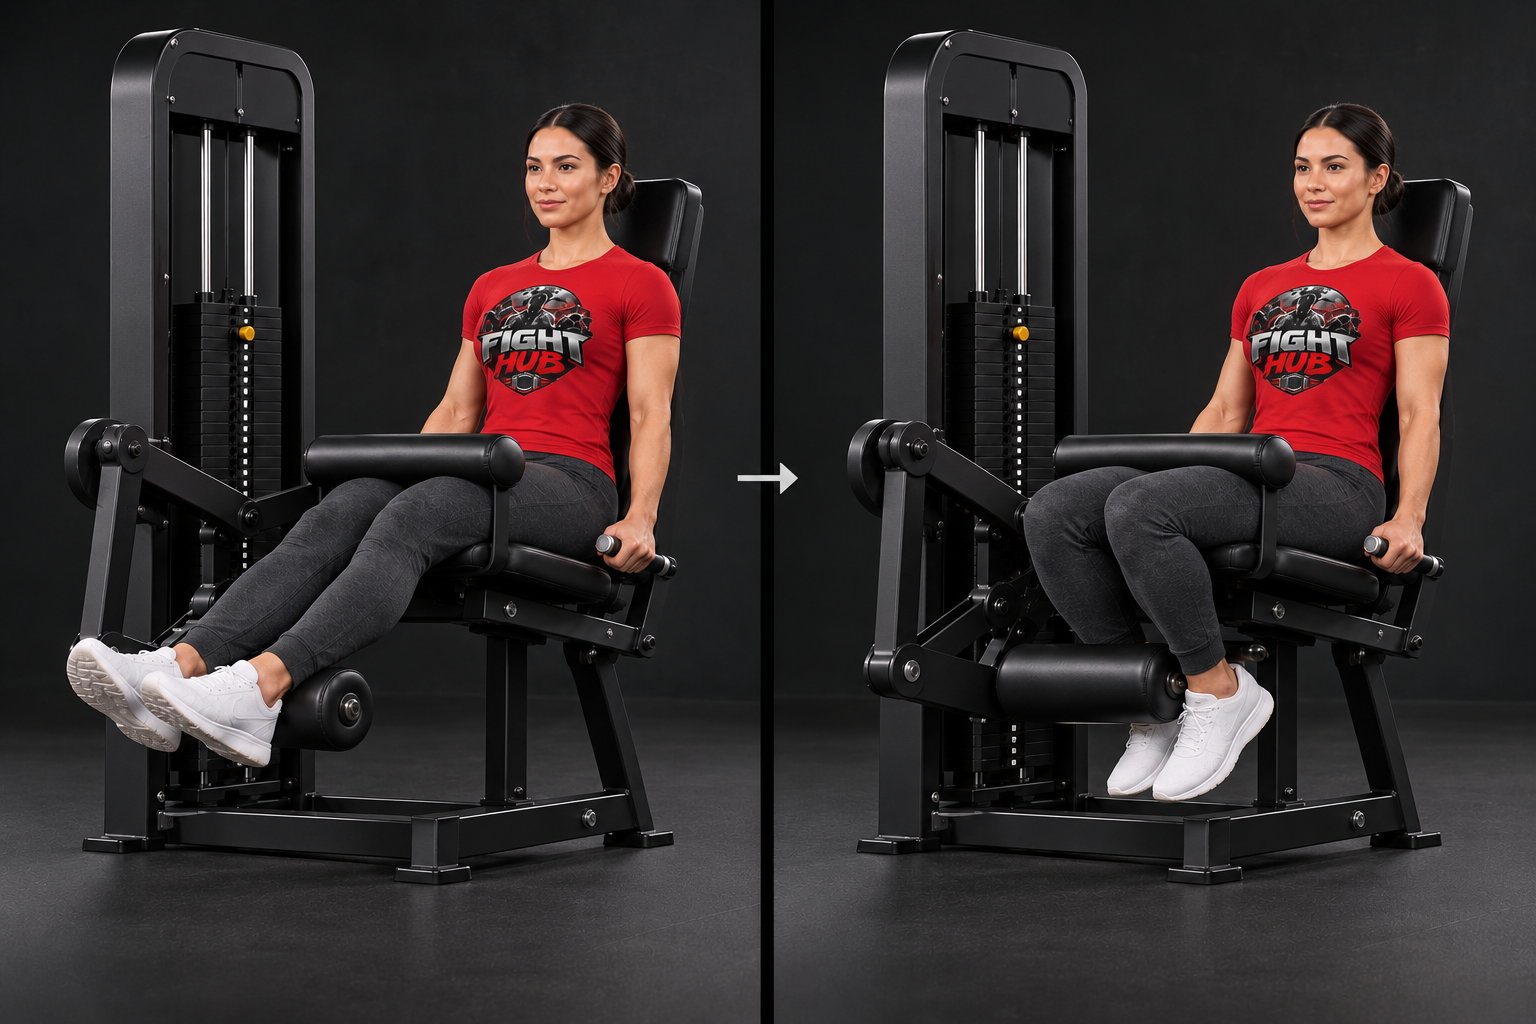
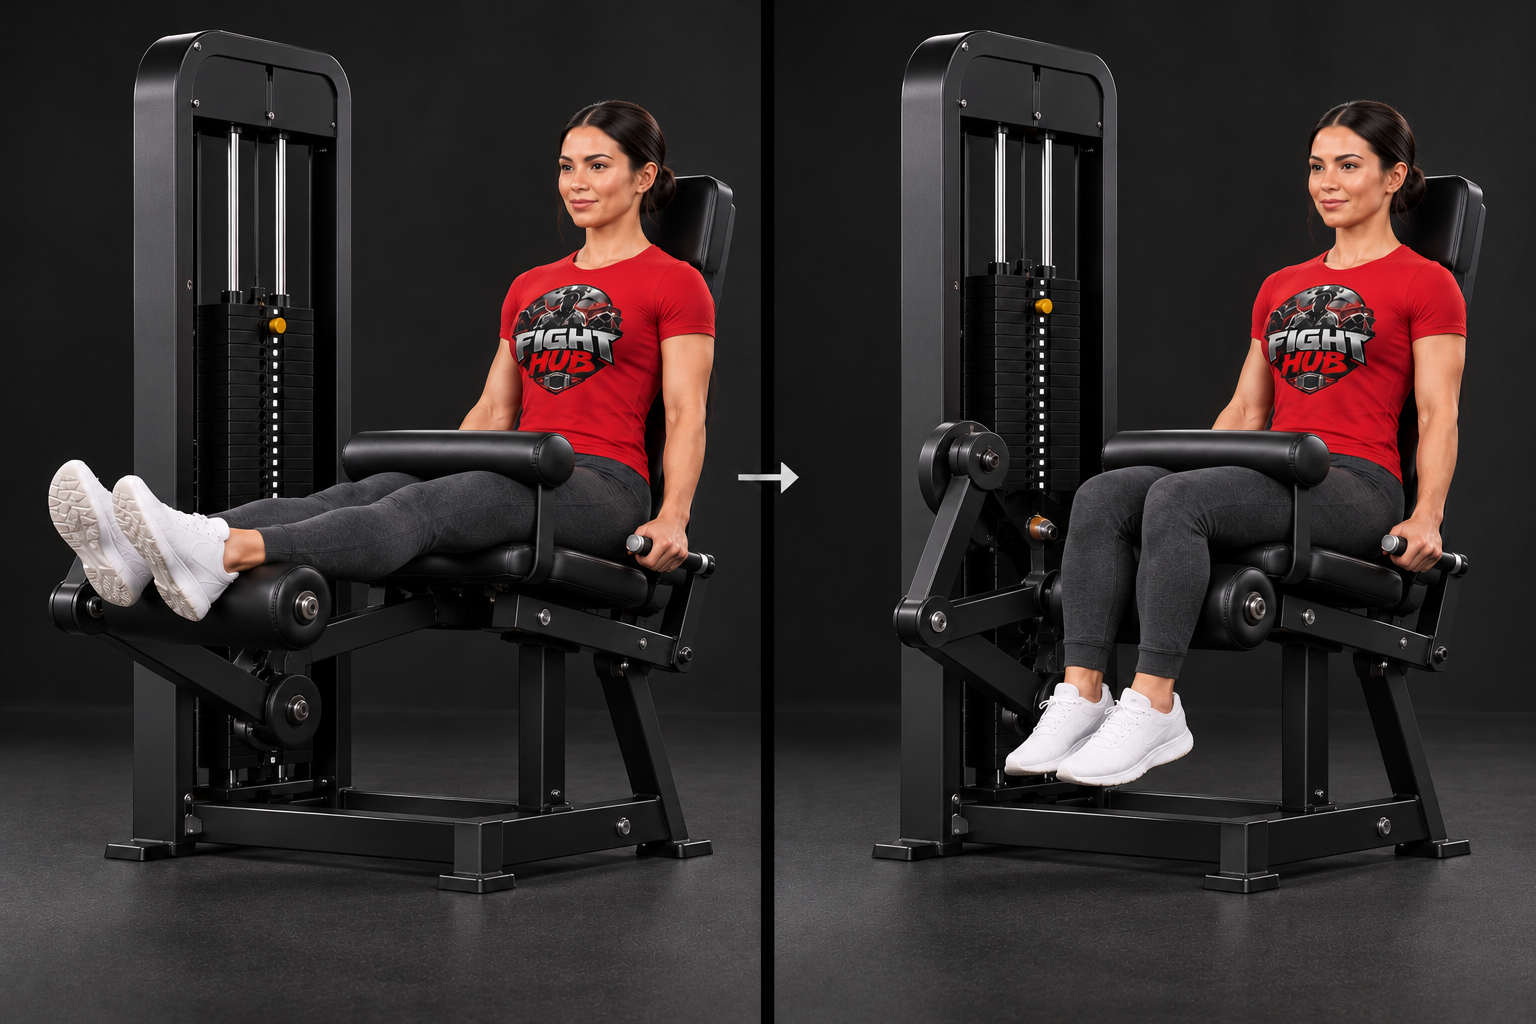
Revise seated leg curl extension and rear pad placement

Changed region(s): [[0.0312, 0.0312, 0.5, 0.9062], [0.5312, 0.0312, 0.9688, 0.9062]]

diff --git a/image-requests/REPLACEMENTS-2026-10-03.md b/image-requests/REPLACEMENTS-2026-10-03.md
@@ -18,3 +18,5 @@ All seven currently listed REDO replacements now have fresh candidates. The five
 App conversion/integration is left for Claude, as permitted in the original request. No app code or WebP files changed in this batch. Review these PNGs before integration, particularly machine contact and torso alignment.
 
 The older ANATOMY-AUDIT concerns are not silently marked resolved: bridge-roll-f, switch-kick-f, running sequence continuity, male Granby and chest-stretch clarity remain review items. The newer REDO.md asks not to remake unlisted assets; this batch follows its explicit replacement list.
+
+User-requested leg-curl revision: first pose now fully extended horizontally with calves above roller; second pose legs in front of rear roller. New candidate awaiting user review; supersedes batch leg-curl candidate.
